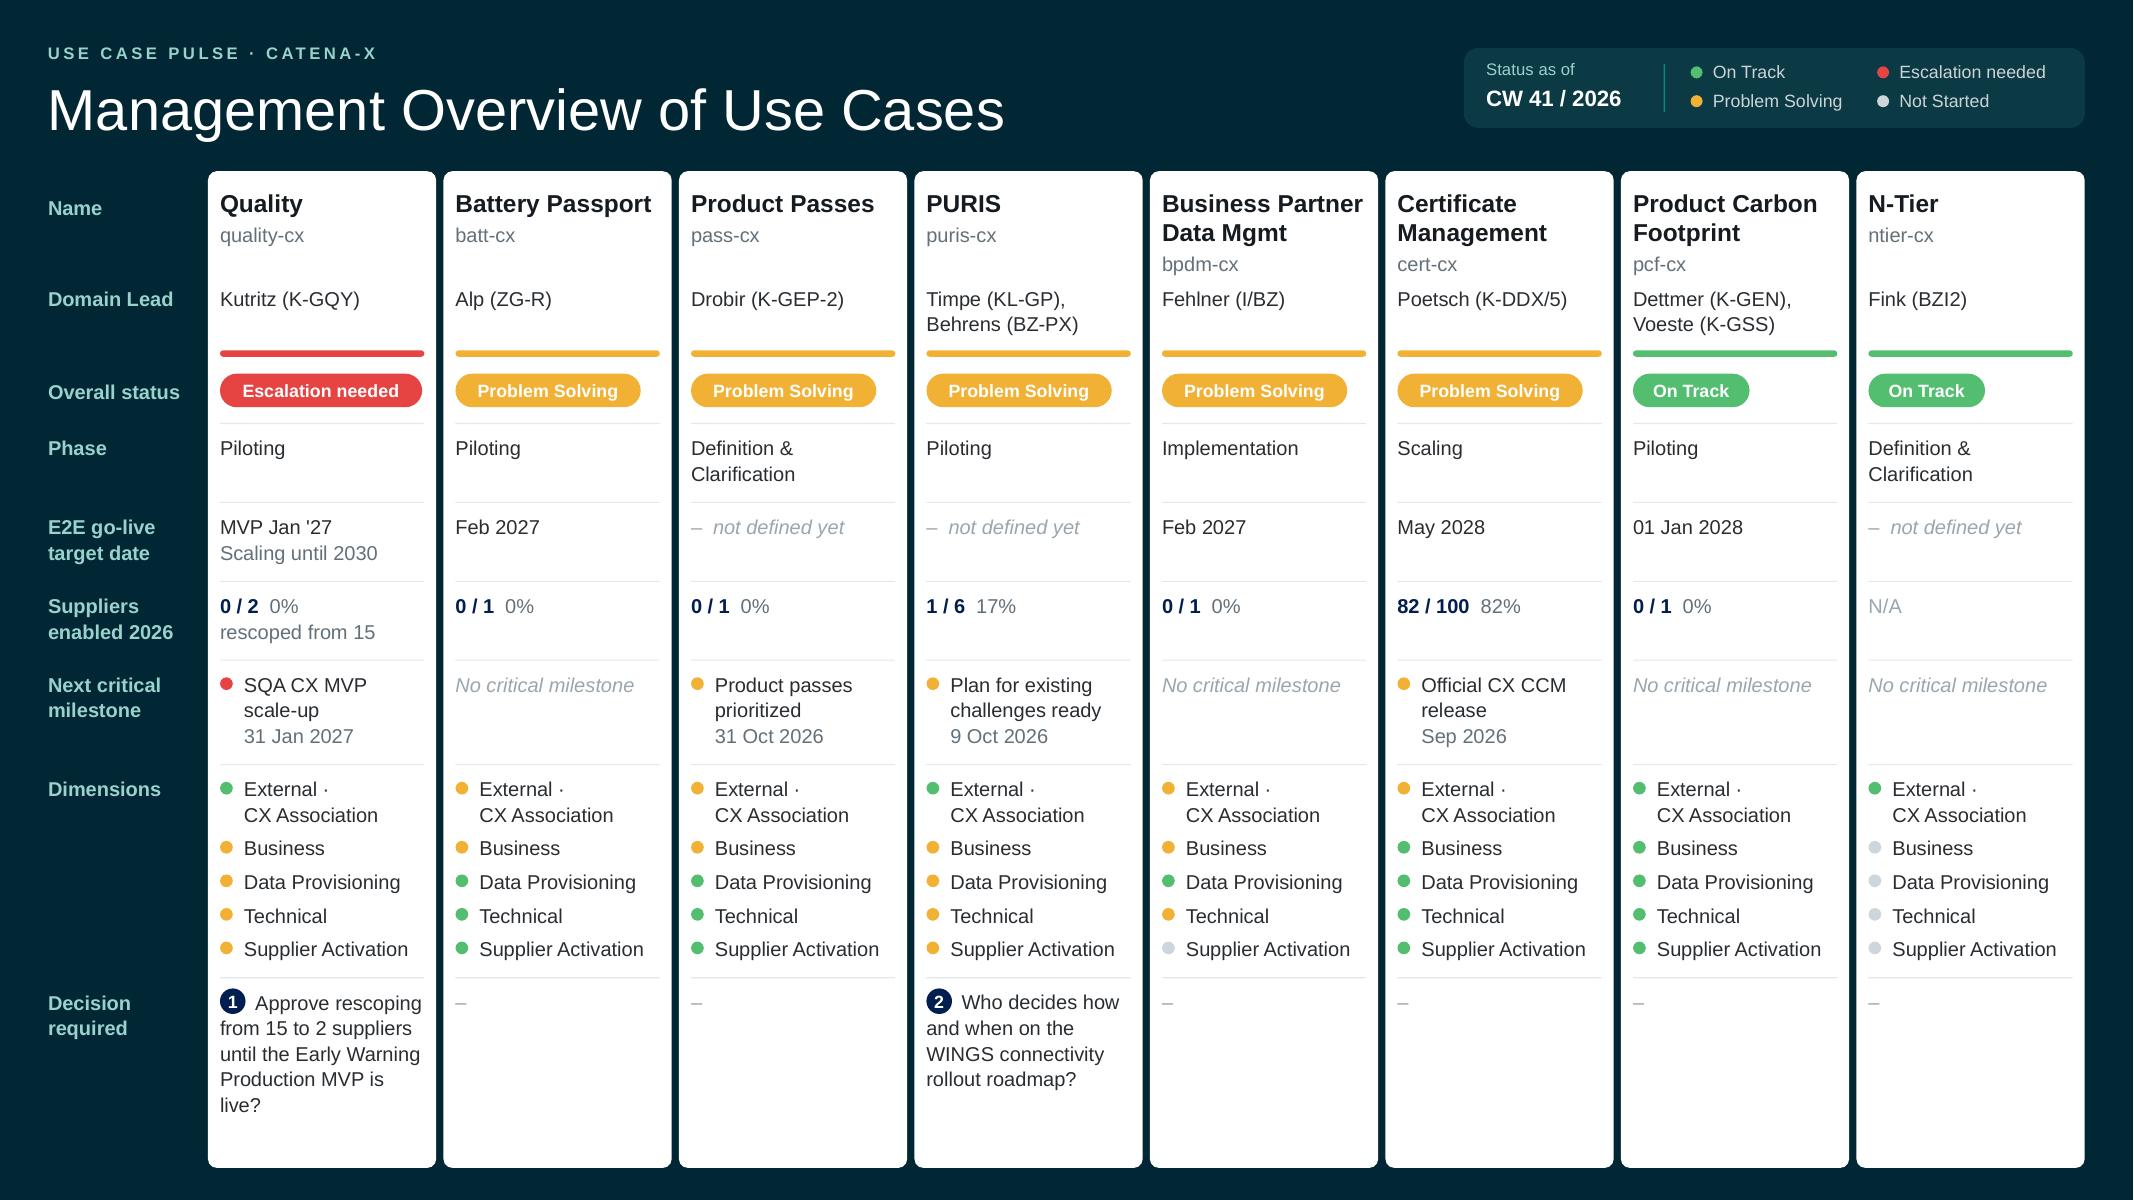
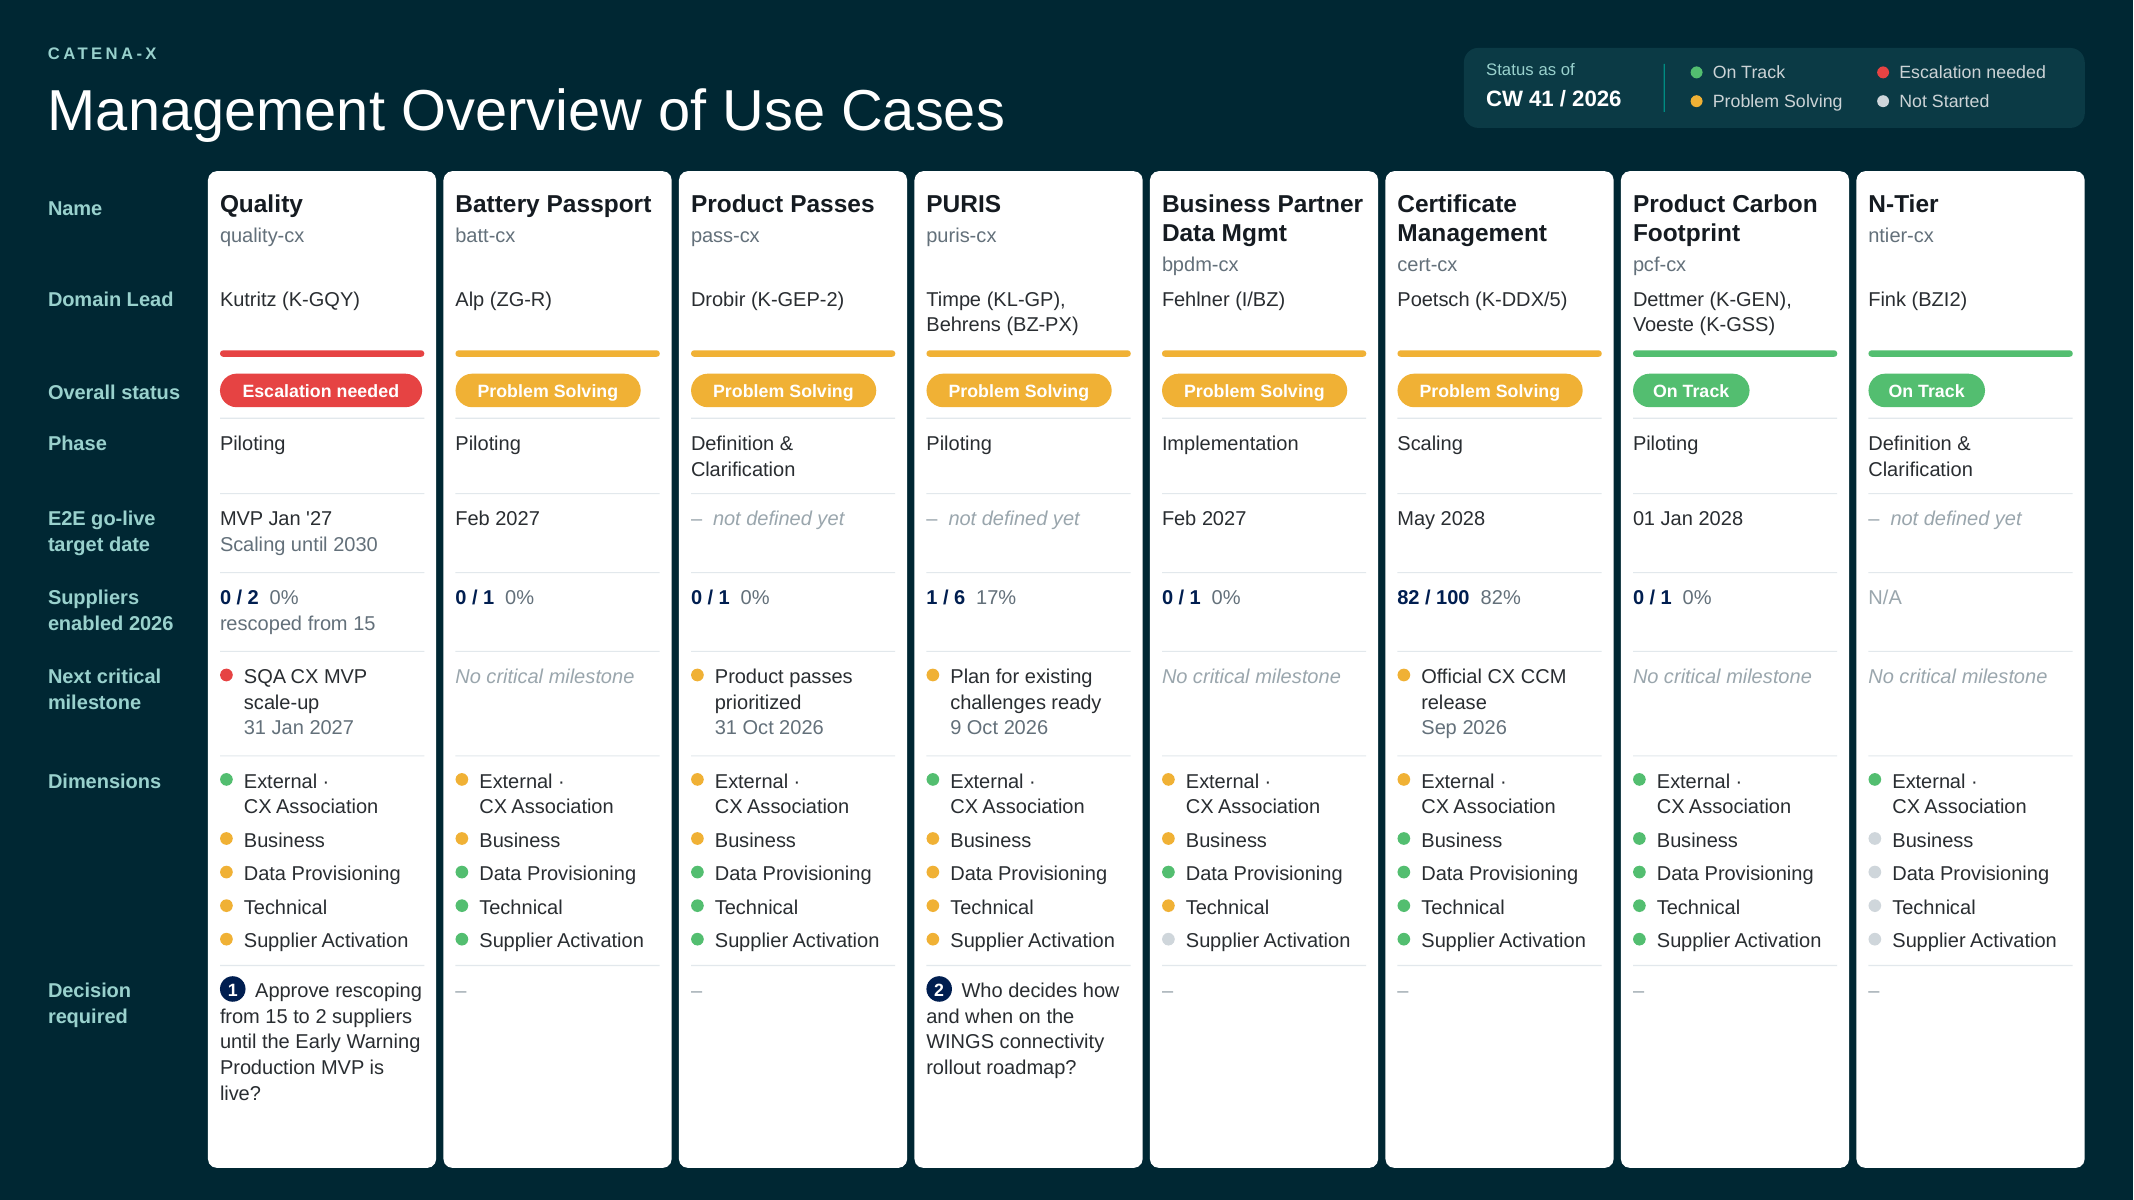
Shared row grid for both overview slides, header and KPI wording
- compute_layout(): one vertical grid for the use case and enabling
  slides; leftover height goes mainly to go-live/KPI, suppliers and
  milestone rows, decision row aligned on both slides
- Eyebrow reduced to 'CATENA-X'
- Key KPI label with 'actual / target' sub-line
- Supplier Activation decision phrased as a question; clearer Portfolio
  and Legal & Contracts KPIs

Claude-Session: https://claude.ai/code/session_01CQaEDurRGWu6YUbJ4GCCPu

diff --git a/scripts/build_management_overview.py b/scripts/build_management_overview.py
@@ -215,7 +215,7 @@ def cell(key, uc, w, board):
     if key == "dec":
         if not uc.get("decisions"):
             return LH, lambda s, x, top: para_box(s, f"{n} Decision None", x, top, w, 1, [[r("–", F, False, FAINT)]])
-        flag, indent, gap = 0.16, 0.22, 0.08
+        flag, indent, gap = 0.16, 0.22, 0.06
         items = [(num, q, n_lines(q, F, w, indent=indent)) for num, q in uc["decisions"]]
 
         def draw(s, x, top):
@@ -234,7 +234,7 @@ def cell(key, uc, w, board):
 HEAD_LABELS = ["Name", "Domain Lead"]
 
 USE_CASE_BOARD = dict(
-    eyebrow="USE CASE PULSE · CATENA-X",
+    eyebrow="CATENA-X",
     title="Management Overview of Use Cases",
     columns=COLUMNS,
     dims=USE_CASE_DIMS,
@@ -282,46 +282,72 @@ def add_frame(s, board):
                anchor="t", wrap=False)
 
 
-def build(board=USE_CASE_BOARD):
+GRID = dict(top_y=1.07, bottom_y=7.30, label_x=0.30, label_w=0.95, col_x0=1.30, col_x1=13.03, gap=0.045,
+            pad=0.075, pad_top=0.07, pad_bottom=0.06)
+# Share of leftover height per row position: more air for rows 3-5, Decision required only moves down
+SPARE_WEIGHTS = [0.5, 1, 2, 2, 2, 1, 0]
+
+
+def card_width(board):
+    n = len(board["columns"])
+    cw = (GRID["col_x1"] - GRID["col_x0"] - GRID["gap"] * (n - 1)) / n
+    return cw, cw - 2 * GRID["pad"]
+
+
+def label_runs(label):
+    """A row label is "Title" or ("Title", "sub-line")."""
+    title, sub = (label, None) if isinstance(label, str) else label
+    paras = [[r(title, F, True, ACCENT_LIGHT)]] + ([[r(sub, F, False, ACCENT_LIGHT)]] if sub else [])
+    k = n_lines(title, F, GRID["label_w"], bold=True) + (n_lines(sub, F, GRID["label_w"]) if sub else 0)
+    return paras, k
+
+
+def compute_layout(boards):
+    """One vertical grid for all boards, so every row sits at the same height on every slide."""
+    name_lines = dl_lines = 1
+    n_rows = len(boards[0]["rows"])
+    heights = [0.0] * n_rows
+    for board in boards:
+        _, w = card_width(board)
+        cols = board["columns"]
+        name_lines = max(name_lines, *(n_lines(uc["name"], F_NAME, w * SEGOE_FACTOR, bold=True) for uc in cols))
+        dl_lines = max(dl_lines, *(n_lines(uc["dl"], F, w) for uc in cols))
+        for i, (key, label) in enumerate(board["rows"]):
+            content = max(max(cell(key, uc, w, board)[0] for uc in cols), label_runs(label)[1] * LH)
+            heights[i] = max(heights[i], GRID["pad_top"] + content + GRID["pad_bottom"])
+
+    y_name = GRID["top_y"] + 0.11
+    y_dl = y_name + name_lines * LH_NAME + 0.02 + LH + 0.06  # name slot, abbreviation, gap
+    y_bar = y_dl + dl_lines * LH + 0.09
+    rows_top = y_bar + 0.10
+    spare = (GRID["bottom_y"] - 0.06) - (rows_top + sum(heights))
+    if spare < 0:
+        print(f"WARNING: content is {-spare:.2f} in taller than the slide", file=sys.stderr)
+    weights = SPARE_WEIGHTS[:n_rows]
+    heights = [h + max(spare, 0) * wt / sum(weights) for h, wt in zip(heights, weights)]
+    return dict(name_lines=name_lines, dl_lines=dl_lines, y_name=y_name, y_dl=y_dl, y_bar=y_bar,
+                rows_top=rows_top, heights=heights)
+
+
+def build(board=USE_CASE_BOARD, layout=None):
+    """Build one slide; pass the layout from compute_layout() to align it with other slides."""
     columns, rows = board["columns"], board["rows"]
+    layout = layout or compute_layout([board])
+    g = GRID
+    cw, w = card_width(board)
     s = Slide()
     add_frame(s, board)
 
-    top_y, bottom_y = 1.07, 7.30
-    label_x, label_w = 0.30, 0.95
-    col_x0, col_x1, gap = 1.30, 13.03, 0.045
-    cw = (col_x1 - col_x0 - gap * (len(columns) - 1)) / len(columns)
-    pad = 0.075
-    w = cw - 2 * pad
-    pad_top, pad_bottom = 0.07, 0.06
-
-    # Header block, top-aligned: name with the abbreviation directly below it, then Domain Lead
-    # (aligned across cards and with its label) and the status bar
-    name_lines = max(n_lines(uc["name"], F_NAME, w * SEGOE_FACTOR, bold=True) for uc in columns)  # Segoe UI Bold ≈ Arial Bold
-    dl_lines = max(n_lines(uc["dl"], F, w) for uc in columns)
-    y_name = top_y + 0.11
-    y_dl = y_name + name_lines * LH_NAME + 0.02 + LH + 0.06
-    y_bar = y_dl + dl_lines * LH + 0.09
-    rows_top = y_bar + 0.10
-
-    # Each row is as tall as its tallest cell (or its label)
-    cells = {key: [cell(key, uc, w, board) for uc in columns] for key, _ in rows}
-    heights = {key: pad_top + max(max(h for h, _ in cells[key]), n_lines(label, F, label_w, bold=True) * LH)
-               + pad_bottom for key, label in rows}
-    spare = (bottom_y - 0.06) - (rows_top + sum(heights.values()))
-    if spare < 0:
-        print(f"WARNING: content is {-spare:.2f} in taller than the slide", file=sys.stderr)
-    for key in heights:  # share leftover space evenly
-        heights[key] += max(spare, 0) / len(rows)
-
+    name_lines, dl_lines = layout["name_lines"], layout["dl_lines"]
+    y_name, y_dl, y_bar = layout["y_name"], layout["y_dl"], layout["y_bar"]
     for c, uc in enumerate(columns):
-        cx = col_x0 + c * (cw + gap)
-        x = cx + pad
+        cx = g["col_x0"] + c * (cw + g["gap"])
+        x = cx + g["pad"]
         n = uc["name"]
-        s.shape(f"Col {n} Card", cx, top_y, cw, bottom_y - top_y, "roundRect", 4000, "FFFFFF")
+        s.shape(f"Col {n} Card", cx, g["top_y"], cw, g["bottom_y"] - g["top_y"], "roundRect", 4000, "FFFFFF")
         s.text(f"Col {n} Name", x, y_name, w, name_lines * LH_NAME + 0.02, [[r(n, F_NAME, True, INK_STRONG)]],
                anchor="t", line_pts=1300)
-        y_abbr = y_name + n_lines(n, F_NAME, w * SEGOE_FACTOR, bold=True) * LH_NAME + 0.02
+        y_abbr = y_name + n_lines(n, F_NAME, w * SEGOE_FACTOR, bold=True) * LH_NAME + 0.02  # directly below the name
         para_box(s, f"Col {n} Abbr", x, y_abbr, w, 1, [[r(uc["abbr"], F, False, MUTED)]])
         para_box(s, f"Col {n} Domain Lead", x, y_dl, w, dl_lines,
                  [[r(uc["dl"], F, False, FAINT if uc["dl"] == "tbd" else INK)]])
@@ -329,25 +355,28 @@ def build(board=USE_CASE_BOARD):
 
     # Left column on the dark background: labels aligned with name / Domain Lead and with each row
     for label, y in zip(HEAD_LABELS, (y_name + 0.03, y_dl)):
-        para_box(s, f"Head Label {label}", label_x, y, label_w, 1, [[r(label, F, True, ACCENT_LIGHT)]])
+        para_box(s, f"Head Label {label}", g["label_x"], y, g["label_w"], 1, [[r(label, F, True, ACCENT_LIGHT)]])
 
-    y = rows_top
-    for key, label in rows:
-        h = heights[key]
-        top = y + pad_top
-        s.text(f"Row Label {label}", label_x, top, label_w, h - pad_top, [[r(label, F, True, ACCENT_LIGHT)]],
+    y = layout["rows_top"]
+    for (key, label), h in zip(rows, layout["heights"]):
+        top = y + g["pad_top"]
+        paras, _ = label_runs(label)
+        title = label if isinstance(label, str) else label[0]
+        s.text(f"Row Label {title}", g["label_x"], top, g["label_w"], h - g["pad_top"], paras,
                anchor="t", line_pts=1150)
         for c, uc in enumerate(columns):
-            x = col_x0 + c * (cw + gap) + pad
+            x = g["col_x0"] + c * (cw + g["gap"]) + g["pad"]
             if key != rows[0][0]:
-                s.shape(f"{uc['name']} Row Divider {label}", x, y, w, 0.007, fill=BORDER)
-            cells[key][c][1](s, x, top)
+                s.shape(f"{uc['name']} Row Divider {title}", x, y, w, 0.007, fill=BORDER)
+            cell(key, uc, w, board)[1](s, x, top)
         y += h
     return s
 
 
 def main():
-    write_pptx(build(USE_CASE_BOARD).shapes, OUTPUT, USE_CASE_BOARD["notes"], bg=BG)
+    from build_enabling_overview import ENABLING_BOARD  # same grid as the enabling slide
+    layout = compute_layout([USE_CASE_BOARD, ENABLING_BOARD])
+    write_pptx(build(USE_CASE_BOARD, layout).shapes, OUTPUT, USE_CASE_BOARD["notes"], bg=BG)
 
 
 if __name__ == "__main__":

diff --git a/scripts/build_enabling_overview.py b/scripts/build_enabling_overview.py
@@ -10,7 +10,7 @@ Supplier Activation).
 
 import sys
 
-from build_management_overview import BG, CW, TEMPLATE, build, write_pptx
+from build_management_overview import BG, CW, TEMPLATE, USE_CASE_BOARD, build, compute_layout, write_pptx
 
 TEMPLATE = sys.argv[1] if len(sys.argv) > 1 else TEMPLATE
 OUTPUT = sys.argv[2] if len(sys.argv) > 2 else "output/Enabling_Pulse_Management_Overview_CW41_26.pptx"
@@ -28,11 +28,11 @@ COLUMNS = [  # sorted: Escalation needed -> Problem solving -> On track
          sup=(240, 400), sup_pct=55, sup_note="228 company groups",
          ms=("esc", "280 suppliers contracted", "30 Sep 2026"),
          dims=["esc", "ps", "ns", "ns"],
-         decisions=[(1, "Red: Cofinity-X processes and portal unclear for suppliers; "
-                        "DSA confirmation costs per use case open")]),
+         decisions=[(1, "How do we make Cofinity-X onboarding clear for suppliers, "
+                        "and who covers DSA confirmation costs per use case?")]),
     dict(name="Portfolio, AI+, C-X NEXT, DigiTrace", abbr="port-cx", dl="Bollmann, Poetsch (K-DDX/5)", status="esc",
          goal="Budget and funding secured in every planning round",
-         kpi=("PR74 & PR75 secured", None, "2 by 31 Dec 2026"),
+         kpi=("Budgets secured", "0", "2 (PR74, PR75)"),
          sup=None, sup_text="–",
          ms=("esc", "Secure PR74", "Nov 2026"),
          dims=["ok", "ps", "ps", "ok"],
@@ -51,8 +51,8 @@ COLUMNS = [  # sorted: Escalation needed -> Problem solving -> On track
          ms=("ps", "Framework agreements signed", "31 Dec 2026"),
          dims=["ok", "ps", "ns", "ns"]),
     dict(name="Legal & Contracts", abbr="gis-cx", dl="Pietschmann", status="ps",  # Domain Lead to be confirmed
-         goal="Framework contracts with brands and data consumers in place",
-         kpi=("Automated contract cycle live", None, "01 Jan 2028"),
+         goal="Framework contracts with all brands and data consumers",
+         kpi=("Automated contract cycle", "not live", "live by 01 Jan 2028"),
          sup=None, sup_text="–",
          ms=("ps", "Managed by Cofinity-X", "Oct 2026"),
          dims=["ok", "ps", "ok", "ps"]),
@@ -64,7 +64,7 @@ COLUMNS = [  # sorted: Escalation needed -> Problem solving -> On track
 ]
 
 ENABLING_BOARD = dict(
-    eyebrow="ENABLING PULSE · CATENA-X",
+    eyebrow="CATENA-X",
     title="Management Overview of Enabling Streams",
     columns=COLUMNS,
     dims=ENABLING_DIMS,
@@ -72,7 +72,7 @@ ENABLING_BOARD = dict(
     rows=[
         ("status", "Overall status"),
         ("goal", "Goal"),
-        ("kpi", "Key KPI actual / target"),
+        ("kpi", ("Key KPI", "actual / target")),
         ("sup", "Suppliers enabled 2026"),
         ("ms", "Next critical milestone"),
         ("dims", "Dimensions"),
@@ -84,7 +84,8 @@ ENABLING_BOARD = dict(
 
 
 def main():
-    write_pptx(build(ENABLING_BOARD).shapes, OUTPUT, ENABLING_BOARD["notes"], bg=BG)
+    layout = compute_layout([USE_CASE_BOARD, ENABLING_BOARD])  # same grid as the use case slide
+    write_pptx(build(ENABLING_BOARD, layout).shapes, OUTPUT, ENABLING_BOARD["notes"], bg=BG)
 
 
 if __name__ == "__main__":

diff --git a/scripts/build_deck.py b/scripts/build_deck.py
@@ -36,11 +36,12 @@ def main():
     tail_start = slide.rindex("</p:spTree>")
 
     # Slide 1 keeps the template's hidden think-cell frame; slide 2 gets no OLE parts of its own
+    boards = [mgmt.USE_CASE_BOARD, build_enabling_overview.ENABLING_BOARD]
+    layout = mgmt.compute_layout(boards)  # one grid: rows line up when switching slides
     slide1 = build_overview.set_bg(
-        slide[:head_end] + "".join(mgmt.build(mgmt.USE_CASE_BOARD).shapes) + slide[tail_start:], mgmt.BG)
+        slide[:head_end] + "".join(mgmt.build(boards[0], layout).shapes) + slide[tail_start:], mgmt.BG)
     slide2 = build_overview.set_bg(
-        slide[:graphic_start] + "".join(mgmt.build(build_enabling_overview.ENABLING_BOARD).shapes)
-        + slide[tail_start:], mgmt.BG)
+        slide[:graphic_start] + "".join(mgmt.build(boards[1], layout).shapes) + slide[tail_start:], mgmt.BG)
 
     layout = re.search(r'Target="(\.\./slideLayouts/[^"]+)"', read("ppt/slides/_rels/slide1.xml.rels")).group(1)
     slide2_rels = ('<?xml version="1.0" encoding="UTF-8" standalone="yes"?>\n'
